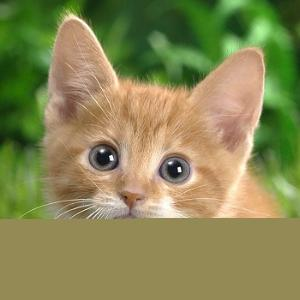
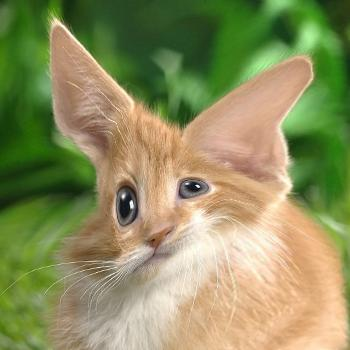
smaller update

diff --git a/main.py b/main.py
@@ -11,10 +11,10 @@ if __name__ == "__main__":
     import matplotlib.pyplot as plt
     from libcpab import Cpab
 
-    T = Cpab([3, 3], backend='numpy', device='cpu', zero_boundary=True,
+    T = Cpab([3, 3], backend='tensorflow', device='gpu', zero_boundary=True,
              volume_perservation=False, override=False)
 
-    theta = 0.5*T.sample_transformation()
+    theta = T.sample_transformation()
     #theta = T.identity()
 
     grid = T.uniform_meshgrid([350, 350])
@@ -23,84 +23,27 @@ if __name__ == "__main__":
     
     im = plt.imread('version1.4/data/cat.jpg')
     im = np.expand_dims(im, 0) / 255
-    #im = tf.cast(im, tf.float32)
+    im = tf.cast(im, tf.float32)
     
     im_t = T.interpolate(im, grid_t, outsize=(350, 350))
+    
+    im = im.numpy()
+    im_t = im_t.numpy()
     
     plt.figure()
     plt.imshow(im[0])
     plt.axis('off')    
     plt.tight_layout()
-    #plt.imsave('cat.jpg', im[0].numpy())
+    plt.imsave('data/cat.jpg', im[0])
     
     plt.figure()
     plt.imshow(im_t[0])
     plt.axis('off')    
     plt.tight_layout()
-    #plt.imsave('deform_cat.jpg', im_t[0].numpy())
+    plt.imsave('data/deform_cat.jpg', im_t[0])
 
     T.visualize_vectorfield(theta)
     plt.axis([0,1,0,1])
     plt.tight_layout()
-    #plt.savefig('velocity_field.jpg')
+    plt.savefig('data/velocity_field.jpg')
     plt.show()
-
-    # %% numpy test)
-#    im = np.tile(plt.imread('cat.jpg')[None] / 255, (2, 1, 1, 1))
-#
-#    T = cpab([2,], backend='numpy', device='cpu', zero_boundary=True,
-#             volume_perservation=False, override=False)
-#
-#    theta = T.sample_transformation()
-#    theta = np.tile(theta, (2, 1))
-#
-#    grid = T.uniform_meshgrid([350, 350])
-#    grid = np.tile(grid[None], (2, 1, 1))
-#    grid[0] += 0.1
-#
-#    grid_t = T.transform_grid(grid, theta)
-#
-#    im_t = T.interpolate(im, grid_t, outsize=(350, 350))
-#
-#    plt.figure();plt.imshow(im_t[0])
-#    plt.figure();plt.imshow(im_t[1])
-##
-# %% pytorch test
-#    im = torch.tensor(plt.imread('cat.jpg')[None] / 255).repeat(2, 1, 1, 1)
-#    im = im.to(torch.float32).permute(0, 3, 1, 2)
-#
-#    T = cpab([3,3], backend='pytorch', device='gpu', zero_boundary=True,
-#             volume_perservation=False, override=False)
-#
-#    theta = T.sample_transformation()
-#    theta = theta.repeat(2,1)
-#
-#    grid = T.uniform_meshgrid([350, 350])
-#    grid = grid[None].repeat(2, 1, 1)
-#    grid[0] += 0.1
-#
-#    grid_t = T.transform_grid(grid, theta)
-#
-#    im_t = T.interpolate(im.cuda(), grid_t, outsize=(350, 350))
-#
-#    plt.figure();plt.imshow(im_t[0].permute(1, 2, 0).cpu().numpy())
-#    plt.figure();plt.imshow(im_t[1].permute(1, 2, 0).cpu().numpy())
-#
-#    #%% tensorflow test
-#    im = tf.cast(plt.imread('cat.jpg')[None] / 255, tf.float32)
-#
-
-#
-##    theta = T.sample_transformation()
-##    theta = theta.repeat(2,1)
-##
-#    grid = T.uniform_meshgrid([350, 350])
-#    grid = grid[None].repeat(2, 1, 1)
-#    grid[0] += 0.1
-
-#    grid_t = T.transform_grid(grid, theta)
-
-#    im_t = T.interpolate(im.cuda(), grid_t, outsize=(350, 350))
-#
-#    plt.figure();plt.imshow(im_t[0].permute(1, 2, 0).cpu().numpy())
-#    plt.figure();plt.imshow(im_t[1].permute(1, 2, 0).cpu().numpy())

diff --git a/examples/alignment_demo.py b/examples/alignment_demo.py
@@ -17,7 +17,7 @@ import argparse
 #%%
 def argparser():
     parser = argparse.ArgumentParser()
-    parser.add_argument('--backend', default='numpy', 
+    parser.add_argument('--backend', default='numpy',
                         choices=['numpy', 'tensorflow', 'pytorch'],
                         help='backend to run demo with')
     parser.add_argument('--device', default='cpu',
@@ -30,14 +30,15 @@ def argparser():
                         help='number of iteration in alignment algorithm')
     return parser.parse_args()
 
+
 #%%
 if __name__ == "__main__":
     args = argparser()
-    
+
     # Load some data
     data = plt.imread('cat.jpg') / 255
-    data = np.expand_dims(data, 0) # create batch effect
-    
+    data = np.expand_dims(data, 0)  # create batch effect
+
     # Create transformer class
     T = Cpab([3, 3], backend=args.backend, device=args.device, zero_boundary=True,
              volume_perservation=False, override=False)
@@ -47,10 +48,10 @@ if __name__ == "__main__":
 
     # Convert data to the backend format
     data = T.backend.to(data, device=args.device)
-    
+
     # Pytorch have other data format than tensorflow and numpy, color information
     # is the second dim. We need to correct this before and after
-    data = data.permute(0,2,3,1) if args.backend=='pytorch' else data
+    data = data.permute(0, 2, 3, 1) if args.backend == 'pytorch' else data
 
     # Transform the images
     transformed_data = T.transform_data(data, theta, outsize=(350, 350))
@@ -58,32 +59,35 @@ if __name__ == "__main__":
     # Now lets see if we can esimate the transformation we just used, by
     # iteratively trying to transform the data
     A = CpabAligner(T)
-    
+
     # Do by sampling, work for all backends
     if args.alignment_type == 'sampling':
-        theta_est = A.alignment_by_sampling(data, transformed_data, maxiter=args.maxiter)
+        theta_est = A.alignment_by_sampling(
+            data, transformed_data, maxiter=args.maxiter)
     else:
-        theta_est = A.alignment_by_gradient(data, transformed_data, maxiter=args.maxiter)
-    
+        theta_est = A.alignment_by_gradient(
+            data, transformed_data, maxiter=args.maxiter)
+
     # Lets see what we converged to
     trans_est = T.transform_data(data, theta_est, outsize=(350, 350))
-    trans_est = trans_est.permute(0,2,3,1) if args.backend=='pytorch' else trans_est
-    
+    trans_est = trans_est.permute(
+        0, 2, 3, 1) if args.backend == 'pytorch' else trans_est
+
     # Show the results
     data = T.backend.tonumpy(data)
     transformed_data = T.backend.tonumpy(transformed_data)
     trans_est = T.backend.to(trans_est)
-    
-    plt.subplots(1,3)
-    plt.subplot(1,3,1)
+
+    plt.subplots(1, 3)
+    plt.subplot(1, 3, 1)
     plt.imshow(data[0])
     plt.axis('off')
     plt.title('Source')
-    plt.subplot(1,3,2)
+    plt.subplot(1, 3, 2)
     plt.imshow(transformed_data[0])
     plt.axis('off')
     plt.title('Target')
-    plt.subplot(1,3,3)
+    plt.subplot(1, 3, 3)
     plt.imshow(trans_est[0])
     plt.axis('off')
     plt.title('Estimate')

diff --git a/examples/sequential_demo.py b/examples/sequential_demo.py
@@ -18,7 +18,7 @@ import argparse
 #%%
 def argparser():
     parser = argparse.ArgumentParser()
-    parser.add_argument('--backend', default='numpy', 
+    parser.add_argument('--backend', default='numpy',
                         choices=['numpy', 'tensorflow', 'pytorch'],
                         help='backend to run demo with')
     parser.add_argument('--device', default='cpu',
@@ -26,14 +26,15 @@ def argparser():
                         help='device to run demo on')
     return parser.parse_args()
 
+
 #%%
 if __name__ == '__main__':
     args = argparser()
-    
+
     # Load some data
     data = plt.imread('cat.jpg') / 255
-    data = np.expand_dims(data, 0) # create batch effect
-    
+    data = np.expand_dims(data, 0)  # create batch effect
+
     # Create multiple transformers
     T1 = Cpab([1, 1], backend=args.backend, device=args.device, zero_boundary=True,
               volume_perservation=False, override=False)
@@ -41,35 +42,33 @@ if __name__ == '__main__':
               volume_perservation=False, override=False)
     T3 = Cpab([3, 3], backend=args.backend, device=args.device, zero_boundary=True,
               volume_perservation=False, override=False)
-    
+
     # Combine into one single transformer
     T = CpabSequential(T1, T2, T3)
-    
+
     # Sample transformations (one for each transformation)
     thetas = T.sample_transformation(1)
-    thetas = [0.5 * t for t in thetas] # scale down, else the output will be very deform
-    
+    # scale down, else the output will be very deform
+    thetas = [0.5 * t for t in thetas]
+
     # Convert data to the backend format
     data = T.backend.to(data, device=args.device)
-    
+
     # Pytorch have other data format than tensorflow and numpy, color information
     # is the second dim. We need to correct this before and after
-    data = data.permute(0,2,3,1) if args.backend=='pytorch' else data
-    
+    data = data.permute(0, 2, 3, 1) if args.backend == 'pytorch' else data
+
     # Transform the images, output_all=True will return all intermidian transforms
-    all_transformed_data = T.transform_data(data, thetas, outsize=(350, 350), output_all=True)
-    
+    all_transformed_data = T.transform_data(
+        data, thetas, outsize=(350, 350), output_all=True)
+
     # Get the corresponding numpy arrays in correct format
-    transformed_data = [data.permute(0,2,3,1) if args.backend=='pytorch' else data]
+    transformed_data = [data.permute(
+        0, 2, 3, 1) if args.backend == 'pytorch' else data]
     for td in all_transformed_data:
-        td = td.permute(0,2,3,1) if args.backend=='pytorch' else td
+        td = td.permute(0, 2, 3, 1) if args.backend == 'pytorch' else td
         transformed_data.append(T.backend.tonumpy(td))
     transformed_data = np.concatenate(transformed_data, axis=0)
 
     # Show transformed samples
     show_images(transformed_data)
-    
-    
-    
-    
-    

diff --git a/examples/simple_demo.py b/examples/simple_demo.py
@@ -33,11 +33,11 @@ if __name__ == "__main__":
     
     # Load some data
     data = plt.imread('cat.jpg') / 255
-    data = np.tile(np.expand_dims(data, 0), [N,1,1,1]) # create batch of data
+    data = np.tile(data[None], [N,1,1,1]) # create batch of data
     
     # Create transformer class
-    T = Cpab([3, 3], backend=args.backend, device=args.device, zero_boundary=True,
-             volume_perservation=False, override=False)
+    T = Cpab([3, 3], backend=args.backend, device=args.device, 
+             zero_boundary=True, volume_perservation=False, override=False)
 
     # Sample random transformation
     theta = T.sample_transformation(N)
@@ -45,16 +45,16 @@ if __name__ == "__main__":
     # Convert data to the backend format
     data = T.backend.to(data, device=args.device)
     
-    # Pytorch have other data format than tensorflow and numpy, color information
-    # is the second dim. We need to correct this before and after
+    # Pytorch have other data format than tensorflow and numpy, color 
+    # information is the second dim. We need to correct this before and after
     data = data.permute(0,2,3,1) if args.backend=='pytorch' else data
 
     # Transform the images
-    transformed_data = T.transform_data(data, theta, outsize=(350, 350))
+    t_data = T.transform_data(data, theta, outsize=(350, 350))
     
     # Get the corresponding numpy arrays in correct format
-    transformed_data = transformed_data.permute(0,2,3,1) if args.backend=='pytorch' else transformed_data
-    transformed_data = T.backend.tonumpy(transformed_data)
+    t_data = t_data.permute(0,2,3,1) if args.backend=='pytorch' else t_data
+    t_data = T.backend.tonumpy(t_data)
 
     # Show transformed samples
-    show_images(transformed_data)
+    show_images(t_data)

diff --git a/README.md b/README.md
@@ -24,7 +24,7 @@ Oren Freifeld (Github repo: [cpabDiffeo](https://github.com/freifeld/cpabDiffeo)
 Nicki Skafte Detlefsen (email: nsde@dtu.dk)
 
 Thanks to Tobias Slott Jensen and Asger Ougaard for suppling the base code 
-for the 1D and 3D cases.
+for the 1D and 3D cases. Thanks to Pola Schwoebel for suppling one of the demos.
 
 This software is released under the MIT License (included with the software). 
 Note, however, that using this code (and/or the results of running it) to support
